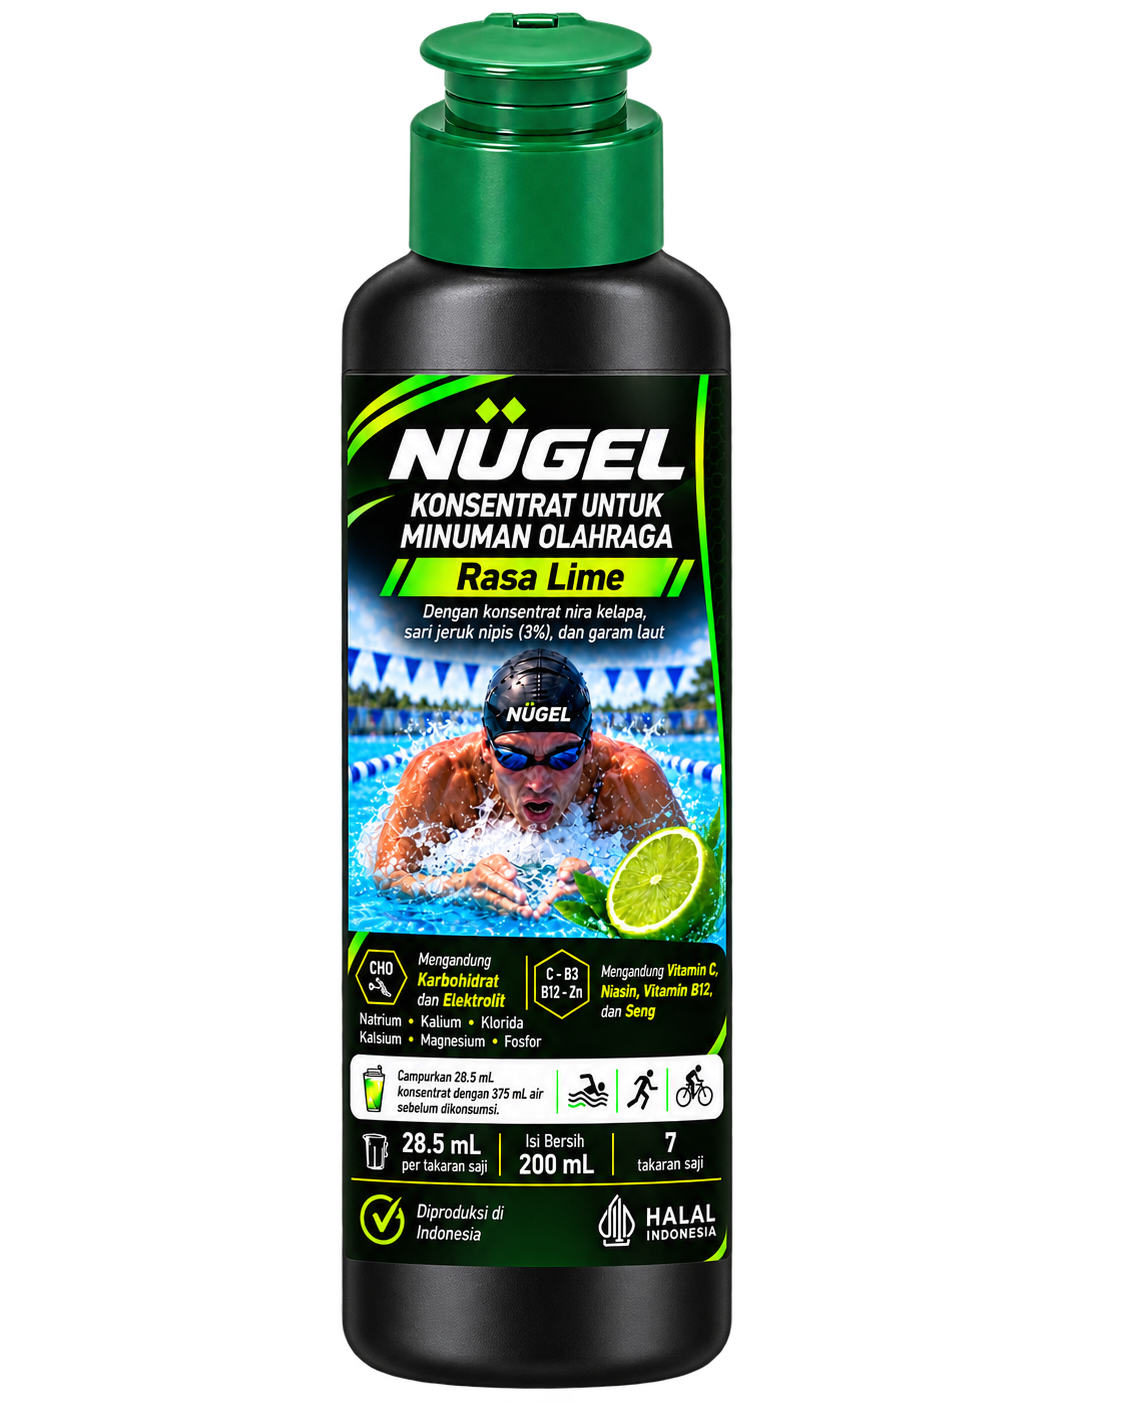
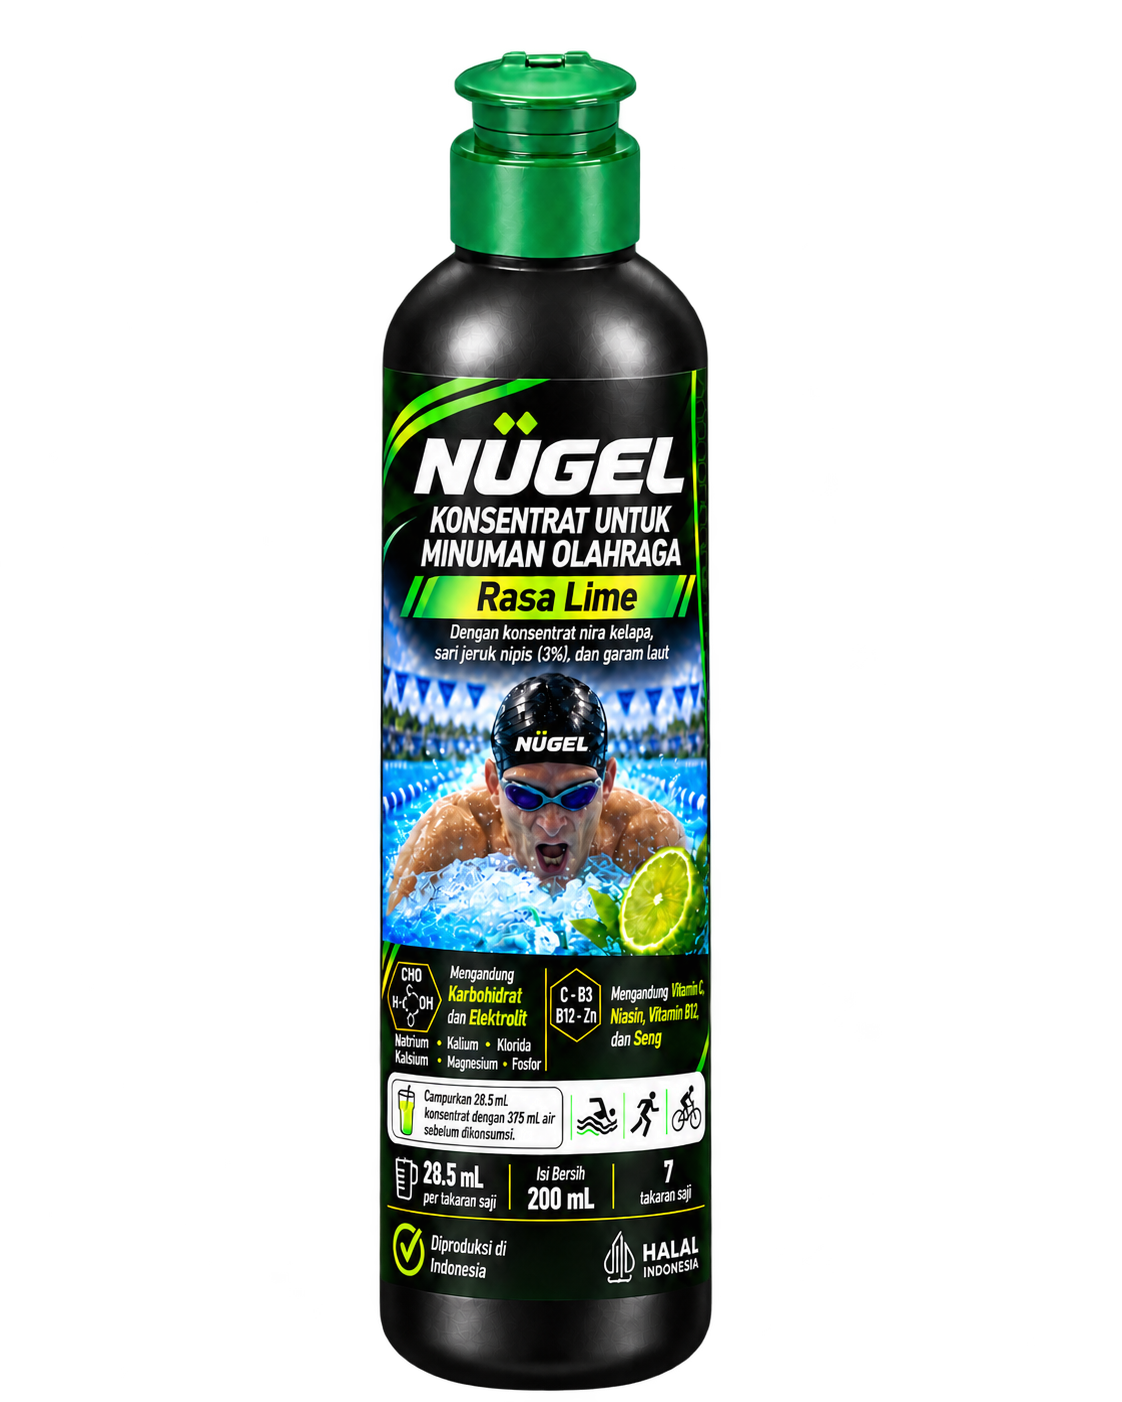
Fix image

Changed region(s): [[0.2807, 0.0, 0.6551, 1.0], [0.4367, 0.9815, 0.5303, 1.0]]

diff --git a/app/page.tsx b/app/page.tsx
@@ -112,7 +112,7 @@ const aboutBubbles = [
       "NÜGEL was created from a swimmer’s perspective — practical products built around real needs in the water.",
     paragraphs: [
       "NÜGEL was created from a swimmer’s perspective, with a simple idea: develop practical products that address real needs in the water.",
-      "The brand was developed by Dieter Machate (born 1959), a competitive Masters swimmer and Gold Medalist at the 2024 World Masters Championships. Years of regular training and competition gave him firsthand experience with two recurring challenges: maintaining energy and hydration through demanding sessions, and keeping goggles clear so he could stay focused in the water.",
+      "The brand was developed by Dieter Machate, a competitive Masters swimmer and Gold Medalist at the 2024 World Masters Championships. Years of regular training and competition gave him firsthand experience with two recurring challenges: maintaining energy and hydration through demanding sessions, and keeping goggles clear so he could stay focused in the water.",
       "Rather than simply creating products for swimmers, Dieter wanted to develop solutions that he himself would use as part of his own training and competition routine. That thinking became the foundation of NÜGEL.",
     ],
     images: [
@@ -126,7 +126,7 @@ const aboutBubbles = [
         src: "/images/dieter-doha-medal-hd.jpeg",
         alt: "Dieter Machate with his gold medal at the World Aquatics Masters Championships Doha 2024",
         caption:
-          "Dieter Machate with his gold medal at the World Aquatics Masters Championships Doha 2024.",
+          "Dieter Machate, a gold medalist at the World Aquatics Masters Championships Doha 2024.",
       },
     ],
     imageCaption: null,
@@ -160,7 +160,7 @@ const aboutBubbles = [
       "Natural energy, dual-source carbohydrates, six key electrolytes and a broader nutritional profile in every serving.",
     richSections: [
       {
-        heading: "Natural Energy. Electrolytes. More Than Just Fuel.",
+        heading: "Natural Energy and Electrolytes; More Than Just Fuel.",
         paragraphs: [
           "NÜGEL Sports Drink Concentrate takes a different approach to conventional sports nutrition. Instead of building a drink around isolated sugars and powders, we start with 95% coconut palm sap concentrate, sea salt, and lime juice.",
           "Coconut palm sap — nira kelapa — is the naturally sweet liquid from coconut palm blossoms. We carefully process it to retain its natural nutritional matrix: sugars, minerals, amino acids, and fiber. Sea salt complements it with additional minerals and trace elements. Together, they form the complete foundation for a sports drink designed for swimmers and other endurance athletes.",
@@ -176,7 +176,7 @@ const aboutBubbles = [
       {
         heading: "SIX KEY ELECTROLYTES FOR HYDRATION",
         paragraphs: [
-          "NÜGEL is more than just energy. Each serving contains 720 mg of electrolytes with six key minerals:",
+          "NÜGEL is more than just energy. Each serving contains 713 mg of electrolytes with six key minerals:",
           "Sodium, Potassium, Chloride, Magnesium, Calcium, and Phosphorus.",
           "Together with water, they help maintain fluid and mineral balance during activity."
         ],
@@ -186,7 +186,7 @@ const aboutBubbles = [
         heading: "COMPLETE PROFILE IN EVERY SERVING",
         paragraphs: [
           "One serving (28.5 mL concentrate + water to 400 mL) provides:",
-          "120 kcal Energy / 29g Carbohydrates / 720 mg Electrolytes / 580 mg Amino Acids",
+          "120 kcal Energy / 29g Carbohydrates / 713 mg Electrolytes / 580 mg Amino Acids",
           "Accompanied by naturally occurring vitamins, trace elements, and fiber.",
           "We also retain functional micronutrients naturally present in the sap:",
         ],
@@ -204,29 +204,29 @@ const aboutBubbles = [
           "No isolated energy boost. Just a broader nutritional profile from natural sources, supplied as a concentrate so you can prepare it fresh when you need it.",
       },
     ],
-    stats: ["120 kcal", "29 g carbs", "720 mg electrolytes"],
+    stats: ["120 kcal", "29 g carbs", "713 mg electrolytes"],
     imageCaption: null,
   },
   {
-    title: "Clear Vision. No Waste.",
+    title: "Clear Vision and No Waste.",
     eyebrow: "NÜGEL Anti-Fog",
     preview:
       "A precision-drop anti-fog solution developed around the wet, high-humidity conditions swimmers actually experience.",
     paragraphs: [
       "NÜGEL Anti-Fog grew from another challenge familiar to regular swimmers: fogged goggles.",
       "It was developed around the actual wet, high-humidity environment of swimming, including situations where condensation, perspiration or small amounts of pool water reach the inside of the goggles.",
-      "Instead of spraying more product than the small lens surface needs, the precision drop applicator places a controlled amount directly on each lens. The idea is simple: effective clarity, precise application and no unnecessary waste.",
+      "Instead of spraying more product than the small lens surface needs, the precision drop applicator places a controlled amount directly on each lens. The idea is simple: effective clarity, precise application and no waste.",
     ],
     imageCaption: null,
   },
   {
-    title: "Two Products. One Purpose.",
+    title: "Two Products, One Purpose.",
     eyebrow: "The NÜGEL philosophy",
     preview:
       "One supports the swimmer from within. The other helps keep the swimmer focused in the water.",
     paragraphs: [
-      "NÜGEL Sports Drink Concentrate and NÜGEL Anti-Fog serve very different functions, but they share the same origin: real needs identified through years spent in the water.",
-      "One supports the swimmer from within by providing energy and hydration. The other supports the swimmer in the water by helping maintain clear vision and reduce distraction.",
+      "NÜGEL Sports Drink Concentrate and NÜGEL Anti-Fog serve very different functions, but they share the same origin: real needs identified through years spent in water.",
+      "One supports the swimmer from within by providing energy and hydration. The other supports the swimmer in water by helping maintain clear vision and reduce distraction.",
       "Together they reflect the same NÜGEL philosophy: practical, swimmer-focused essentials developed from firsthand experience. NÜGEL is not about making swimming more complicated — it is about making some of the essentials simpler.",
     ],
     imageCaption: null,
@@ -1076,7 +1076,7 @@ Terima kasih!`;
                 className="relative hidden min-h-[540px] origin-center lg:flex lg:items-center lg:justify-center"
                 style={{ willChange: "transform" }}
               >
-                <div className="absolute left-[68%] top-[24%] z-40 -translate-x-1/2 -translate-y-1/2">
+                <div className="absolute left-[65%] top-[24%] z-40 -translate-x-1/2 -translate-y-1/2">
                   <p
                     className="font-sans text-[1.1rem] font-black uppercase leading-[1.02] tracking-[0.12em] text-[#07131a] xl:text-[1.28rem]"
                     style={{
@@ -1202,7 +1202,7 @@ Terima kasih!`;
                   {[
                     {
                       name: "Sports Drink Concentrate",
-                      detail: "Maintain your energy and hydration",
+                      detail: "Maintain your energy and hydration levels",
                       productIndex: 0,
                     },
                     {
@@ -1291,7 +1291,7 @@ Terima kasih!`;
                           alt="NÜGEL Sports Drink Concentrate 200 ml"
                           width={1122}
                           height={1402}
-                          className="h-[295px] w-auto object-contain drop-shadow-[0_35px_45px_rgba(0,0,0,0.38)] sm:h-[390px] md:h-[440px] lg:h-[460px] xl:h-[500px]"
+                          className="h-[315px] w-auto object-contain drop-shadow-[0_35px_45px_rgba(0,0,0,0.38)] sm:h-[420px] md:h-[470px] lg:h-[495px] xl:h-[535px]"
                           priority
                         />
                       </div>
@@ -1301,7 +1301,7 @@ Terima kasih!`;
                   {/* Front-center: the mixing cup is the visual anchor of the bundle. */}
                   <div
                     ref={cupMoverRef}
-                    className="absolute bottom-[-1%] left-[50%] z-40 -translate-x-1/2 will-change-transform"
+                    className="absolute bottom-[-1%] left-[52%] z-40 -translate-x-1/2 will-change-transform"
                   >
                     <div className="nugel-starter-float-cup">
                       <div style={{ transform: "rotate(0deg)" }}>
@@ -1443,16 +1443,16 @@ Terima kasih!`;
                   </p>
 
                   <h3 className="mt-3 text-3xl font-black leading-[1.03] tracking-[-0.035em] md:text-[2.35rem]">
-                    Quality Ingredients. Real Nutrition. More Than Just Sugar & Water.
+                    Quality Ingredients and Real Nutrition; More Than Just Sugar & Water.
                   </h3>
 
                   <div className="mt-4 max-w-5xl space-y-3 text-sm leading-7 text-white/88 md:text-base">
                     <p>
-                      NÜGEL is made with 95% coconut palm sap concentrate, sea salt and lime juice. Coconut palm sap is
+                      NÜGEL sports drink concentrate is made with 95% coconut palm sap concentrate, sea salt and lime juice. Coconut palm sap is
                       also known in
                       Indonesia as <span className="italic">nira kelapa</span>. Coconut sap is
-                      the naturally sweet liquid collected from coconut palm blossoms. It gives
-                      NÜGEL its natural sugars, minerals and other nutrients.
+                      a naturally sweet liquid collected from coconut palm blossoms. It gives
+                      NÜGEL sports drink concentrate its natural sugars, minerals and other nutrients.
                     </p>
 
                     <p>
@@ -1488,7 +1488,7 @@ Terima kasih!`;
 
                       <p className="mt-4 text-sm leading-6 text-white/88">
                         Mix 1 serving (28.5 mL / 2 tbsp) with about 375 mL of water to
-                        prepare 400 mL of sports drink. It dissolves instantly.
+                        prepare 400 mL of sports drink. Shake briefly — concentrate dissolves instantly.
                       </p>
                       <p className="mt-3 text-sm leading-6 text-white/78">
                         Use before, during and/or after training according to your
@@ -1549,7 +1549,7 @@ Terima kasih!`;
                         {[
                           ["Energy", "120 kcal"],
                           ["Carbohydrates", "29 g"],
-                          ["Electrolytes", "720 mg"],
+                          ["Electrolytes", "713 mg"],
                           ["Amino acids", "580 mg"],
                         ].map(([label, value]) => (
                           <div
@@ -1668,20 +1668,14 @@ Terima kasih!`;
                     NÜGEL Anti-Fog Drops 
                   </p>
                   <h3 className="mt-3 text-3xl font-black leading-[1.03] tracking-[-0.035em] md:text-[2.35rem]">
-                    Effective clarity without the overspray.
+                    Maximum clarity with just one drop.
                   </h3>
                   <p className="mt-4 text-sm leading-7 text-white/88 md:text-base">
-                    NÜGEL is designed for the wet, high-humidity environment of
-                    swimming and helps maintain clearer vision even when the
-                    inside of the goggles becomes slightly wet from
-                    condensation, perspiration or small amounts of pool water.
-                    Its hydrophilic layer helps moisture spread more evenly
-                    across the lens instead of gathering into visible fog
-                    droplets.
-                  </p>
-
-                  <p className="mt-3 text-sm leading-7 text-white/82 md:text-base">
-                    Unlike sprays that waste the product on the frame and outside the lens, NÜGEL uses a precision drop applicator — so the product goes exactly onto the lens.
+                    NÜGEL anti-fog drops is designed for the wet, high-humidity swimming environment.
+                    It maintains clear vision despite minor moisture, condensation, or perspiration
+                    inside the goggles. Its hydrophilic coating distributes moisture evenly across the lens
+                    surface, preventing droplet formation and fogging. NÜGEL anti-fog drops comes with drop
+                    applicator which ensures precision product application onto the lens.
                   </p>
 
                   <div className="mt-4 grid gap-3 md:grid-cols-2">
@@ -1690,7 +1684,7 @@ Terima kasih!`;
                         1 drop per lens
                       </p>
                       <p className="mt-3 text-sm leading-6 text-white/82">
-                        Apply 1 drop to the inside of each clean lens, spread thinly and evenly with a clean finger, let it settle for a few minutes, then put the goggles on. For racing, before putting on, briefly dip goggles in water and shake off excess water.
+                        Apply 1 drop to the inner surface of each clean lens, spread evenly with a clean finger, allow it tosettle for a few minutes, then wear the goggles. Prior to racing, briefly dip the goggles in water and shake off any excess water. 
                       </p>
                     </div>
 
@@ -1759,10 +1753,10 @@ Terima kasih!`;
                     NÜGEL Measuring Container
                   </p>
                   <h3 className="mt-3 text-3xl font-black leading-[1.03] tracking-[-0.035em] md:text-[2.35rem]">
-                    Measure. Mix. Ready.
+                    Measure, mix, ready.
                   </h3>
                   <p className="mt-4 text-sm leading-7 text-white/88 md:text-base">
-                    A reusable measuring container designed to make preparing NÜGEL simple and consistent. It gives you one dedicated place to measure the concentrate and add water to prepare your sports drink.
+                    A reusable measuring container designed for consistent and effortless preparation of sports drink.
                   </p>
 
                   <div className="mt-4 grid gap-3 md:grid-cols-2">
@@ -1866,53 +1860,53 @@ Terima kasih!`;
                       <div className="absolute inset-0 flex items-center justify-center">
                         <div className="relative h-[184px] w-[258px] max-w-[94%] translate-y-1">
                           {/* Back-left: Energy */}
-                          <div className="absolute bottom-[8px] left-0 z-10">
+                          <div className="absolute bottom-0 left-0 z-10">
                             <Image
                               src="/images/nugel-energy-200.png"
                               alt=""
                               width={1122}
                               height={1402}
-                              className="h-[174px] w-auto object-contain transition duration-500 group-hover:-translate-y-1 group-hover:scale-[1.02]"
+                              className="h-[190px] w-auto object-contain transition duration-500 group-hover:-translate-y-1 group-hover:scale-[1.02]"
                             />
                           </div>
 
                           {/* Front-center: Mixing cup */}
-                          <div className="absolute bottom-0 left-1/2 z-30 -translate-x-1/2">
+                          <div className="absolute bottom-[-6px] left-[52%] z-30 -translate-x-1/2">
                             <Image
                               src="/images/nugel-mixing-cup.png"
                               alt=""
                               width={1225}
                               height={1284}
-                              className="h-[98px] w-auto object-contain drop-shadow-[0_12px_16px_rgba(0,0,0,0.18)] transition duration-500 group-hover:-translate-y-1 group-hover:scale-[1.02]"
+                              className="h-[82px] w-auto object-contain drop-shadow-[0_12px_16px_rgba(0,0,0,0.18)] transition duration-500 group-hover:-translate-y-1 group-hover:scale-[1.02]"
                             />
                           </div>
 
                           {/* Back-right: Anti-Fog, separated from the central pair */}
-                          <div className="absolute bottom-[10px] right-[40px] z-10">
+                          <div className="absolute bottom-0 right-[30px] z-10">
                             <Image
                               src="/images/nugel-antifog.png"
                               alt=""
                               width={260}
                               height={450}
-                              className="h-[77px] w-auto object-contain transition duration-500 group-hover:-translate-y-1 group-hover:scale-[1.02]"
+                              className="h-[90px] w-auto object-contain transition duration-500 group-hover:-translate-y-1 group-hover:scale-[1.02]"
                             />
                           </div>
                         </div>
                       </div>                    ) : id === "energy" ? (
-                      <div className="relative flex h-full w-full -translate-x-[12px] items-end justify-center pb-1 sm:-translate-x-[14px]">
+                      <div className="relative flex h-full w-full items-center justify-center">
                         <Image
                           src="/images/nugel-energy-200.png"
                           alt="NÜGEL Sports Drink Concentrate 200 ml"
                           width={1122}
                           height={1402}
-                          className="relative z-10 -mr-[42px] translate-x-5 scale-x-[0.9] h-[204px] w-auto object-contain transition duration-500 group-hover:-translate-y-1 sm:-mr-[48px] sm:translate-x-6"
+                          className="relative z-10 -mr-[42px] translate-x-[3px] scale-x-[0.9] h-[204px] w-auto object-contain transition duration-500 group-hover:-translate-y-1 sm:-mr-[48px]"
                         />
                         <Image
                           src="/images/nugel-energy-515.png"
                           alt="NÜGEL Sports Drink Concentrate 515 ml"
                           width={1122}
                           height={1402}
-                          className="relative z-20 scale-x-[1.16] h-[182px] w-auto object-contain transition duration-500 group-hover:-translate-y-1"
+                          className="relative z-20 -translate-x-[20px] translate-y-[14px] scale-x-[1.16] h-[175px] w-auto object-contain transition duration-500 group-hover:-translate-x-[18px] group-hover:translate-y-[6px]"
                         />
                       </div>
                     ) : id === "antifog" ? (
@@ -2396,30 +2390,38 @@ Bought separately, the three products total ${formatRupiah(STARTER_REGULAR_PRICE
               ],
               [
                 "Is the prepared NÜGEL Sports Drink isotonic?",
-                `Yes. When prepared as directed (28.5 mL concentrate + 375 mL water = 400 mL), NÜGEL is isotonic.
+                `Yes. NÜGEL is formulated to fall within the isotonic range when prepared as directed (28.5 mL concentrate + 375 mL water ≈ 400 mL).
 
-How we calculate it:
+How we estimated it:
 
-A drink is hypotonic, isotonic, or hypertonic depending on its osmolality. An isotonic drink is 270–330 mOsm/kg, similar to blood, which means the drink has the same concentration as your body fluids for optimal fluid balance and fast absorption.
+A drink is hypotonic, isotonic or hypertonic depending largely on its osmolality. Isotonic sports drinks are commonly described as having an osmolality of approximately 270–330 mOsm/kg, close to the concentration of body fluids.
 
-Per 400 mL prepared drink:
+Per approximately 400 mL prepared drink:
 
-1. Carbohydrates: 27 g sugar = 197.2 mOsm/kg
+1. Carbohydrates:
+27 g sugar ≈ 197.2 mOsm/kg
 
 2. Electrolytes:
-   - Sodium 190 mg = 20.6 mOsm/kg
-   - Potassium 190 mg = 12.1 mOsm/kg
-   - Chloride 310 mg = 21.8 mOsm/kg
-   - Other minerals (Mg, Ca, P) = 5.0 mOsm/kg
-   - Total Electrolytes = 59.6 mOsm/kg
 
-3. Fiber + Protein: 2.0 mOsm/kg
+Sodium 190 mg ≈ 20.6 mOsm/kg
+Potassium 190 mg ≈ 12.1 mOsm/kg
+Chloride 310 mg ≈ 21.8 mOsm/kg
+Other minerals (Mg, Ca, P) ≈ 5.0 mOsm/kg
+Total Electrolytes ≈ 59.6 mOsm/kg
 
-4. Organic acids in sap + lime juice: 21.2 mOsm/kg
+3. Fiber + Protein:
+≈ 2.0 mOsm/kg
 
-Total as consumed = 197.2 + 59.6 + 2.0 + 21.2 = 280 mOsm/kg = ISOTONIC
+4. Organic acids from coconut palm sap, lime juice and added acids:
+≈ 21.2 mOsm/kg
 
-The sugar in the sap naturally splits into glucose + fructose (1:1) after consumption. This is ideal as it temporarily doubles its carbohydrate osmolarity, and is absorbed through different pathways (SGLT1 & GLUT5), which is how dual-carb isotonic drinks drive fast water and energy absorption — the same principle used in pro endurance formulas.`,
+Estimated total:
+
+197.2 + 59.6 + 2.0 + 21.2 ≈ 280 mOsm/kg
+
+This formulation-based estimate places the prepared NÜGEL drink within the commonly used isotonic range of approximately 270–330 mOsm/kg. Actual osmolality may vary and can be confirmed by laboratory measurement.
+
+The sugar in coconut palm sap is mainly sucrose, which is broken down after consumption into glucose and fructose in approximately a 1:1 ratio. These are then absorbed through different intestinal transport pathways—primarily SGLT1 for glucose and GLUT5 for fructose. This dual-carbohydrate principle is widely used in pro endurance sports nutrition formulations.`,
               ],
               [
                 "Is NÜGEL halal?",
@@ -3042,8 +3044,8 @@ Once the inner lens is clean and reasonably uniform, NÜGEL Anti-Fog Drops can b
         }
 
         .hero-product-hotspot-energy .hero-product-tooltip {
-          top: -68px;
-          left: 56%;
+          top: -50px;
+          left: 50%;
         }
 
         .hero-product-hotspot-container {
@@ -3055,6 +3057,7 @@ Once the inner lens is clean and reasonably uniform, NÜGEL Anti-Fog Drops can b
 
         .hero-product-hotspot-container .hero-product-tooltip {
           top: -30px;
+          left: 45%;
           min-width: 0;
           width: 92px;
           white-space: normal;
@@ -3068,7 +3071,8 @@ Once the inner lens is clean and reasonably uniform, NÜGEL Anti-Fog Drops can b
         }
 
         .hero-product-hotspot-antifog .hero-product-tooltip {
-          top: -22px;
+          top: -12px;
+          left: 42%;
         }
 
         .hero-product-tooltip {
